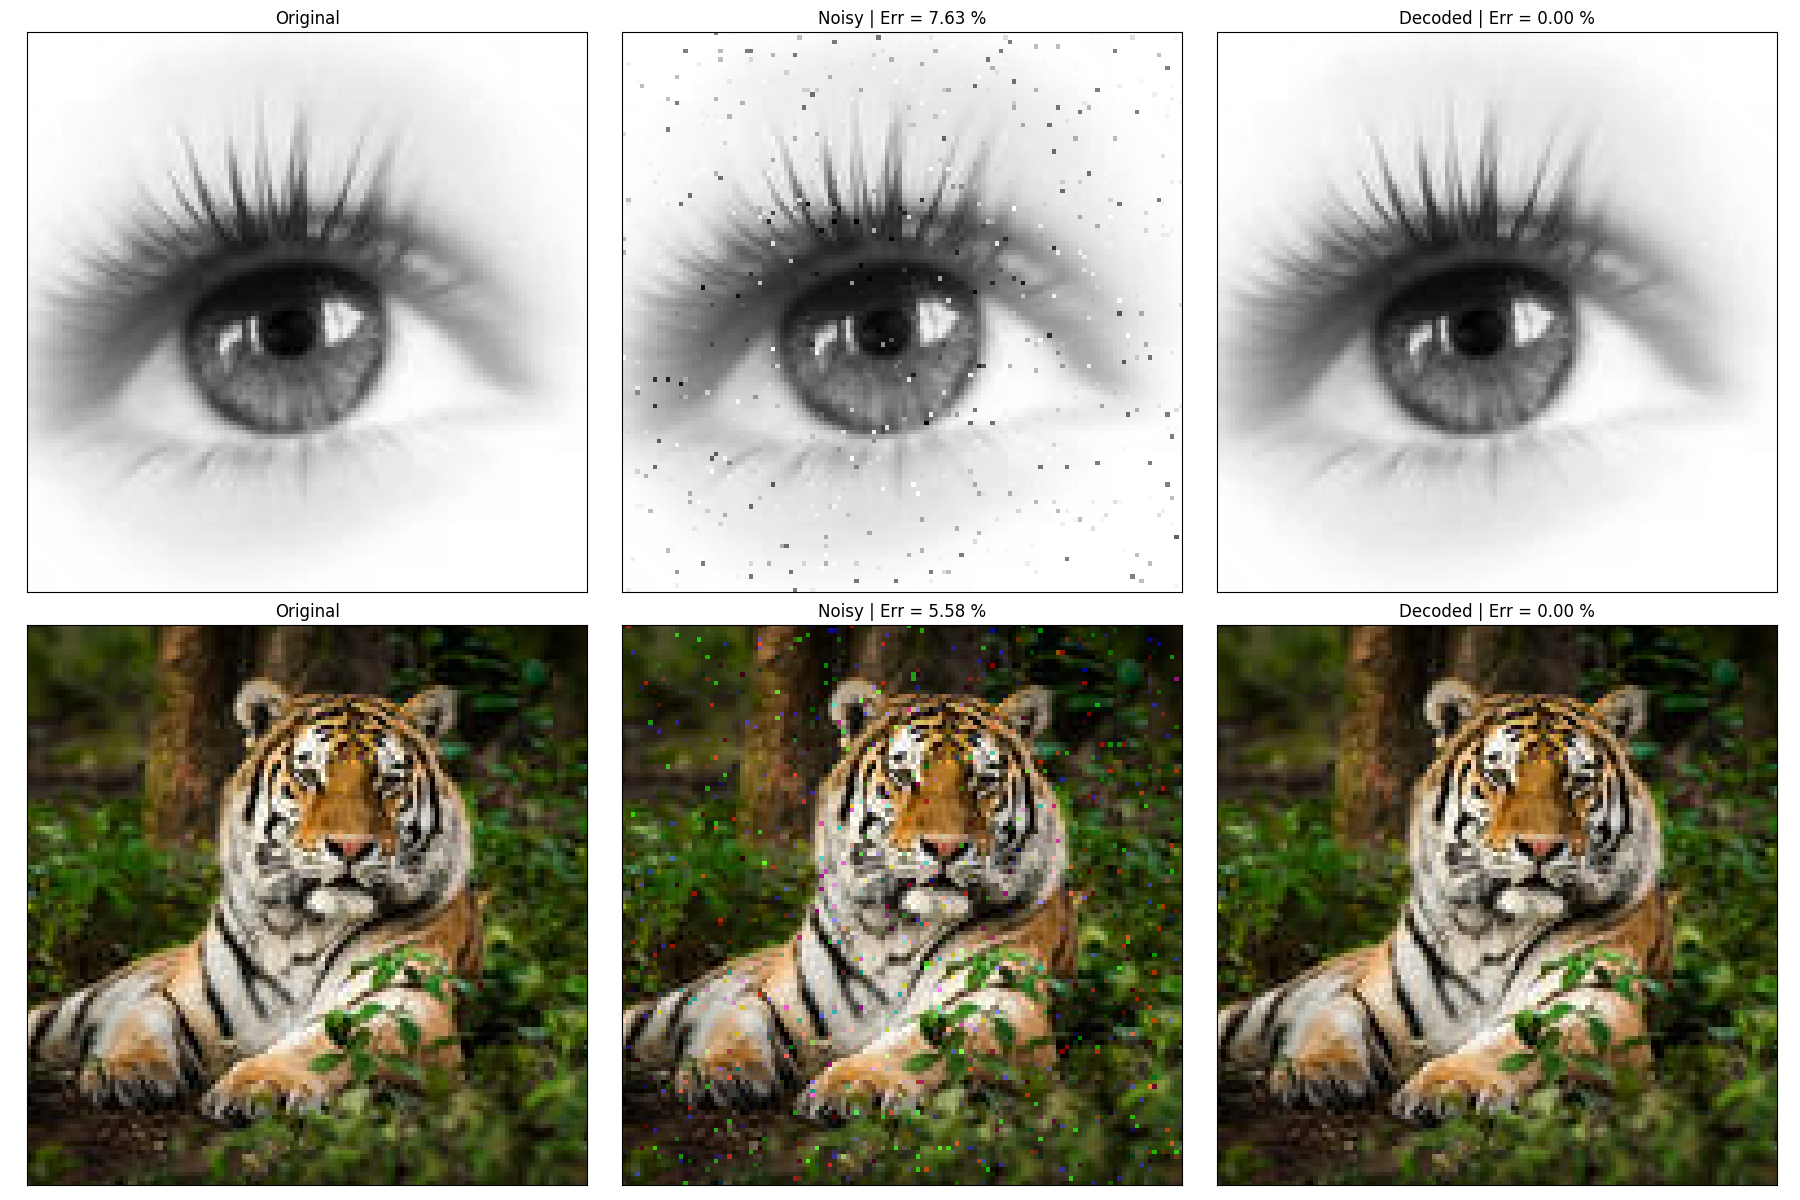
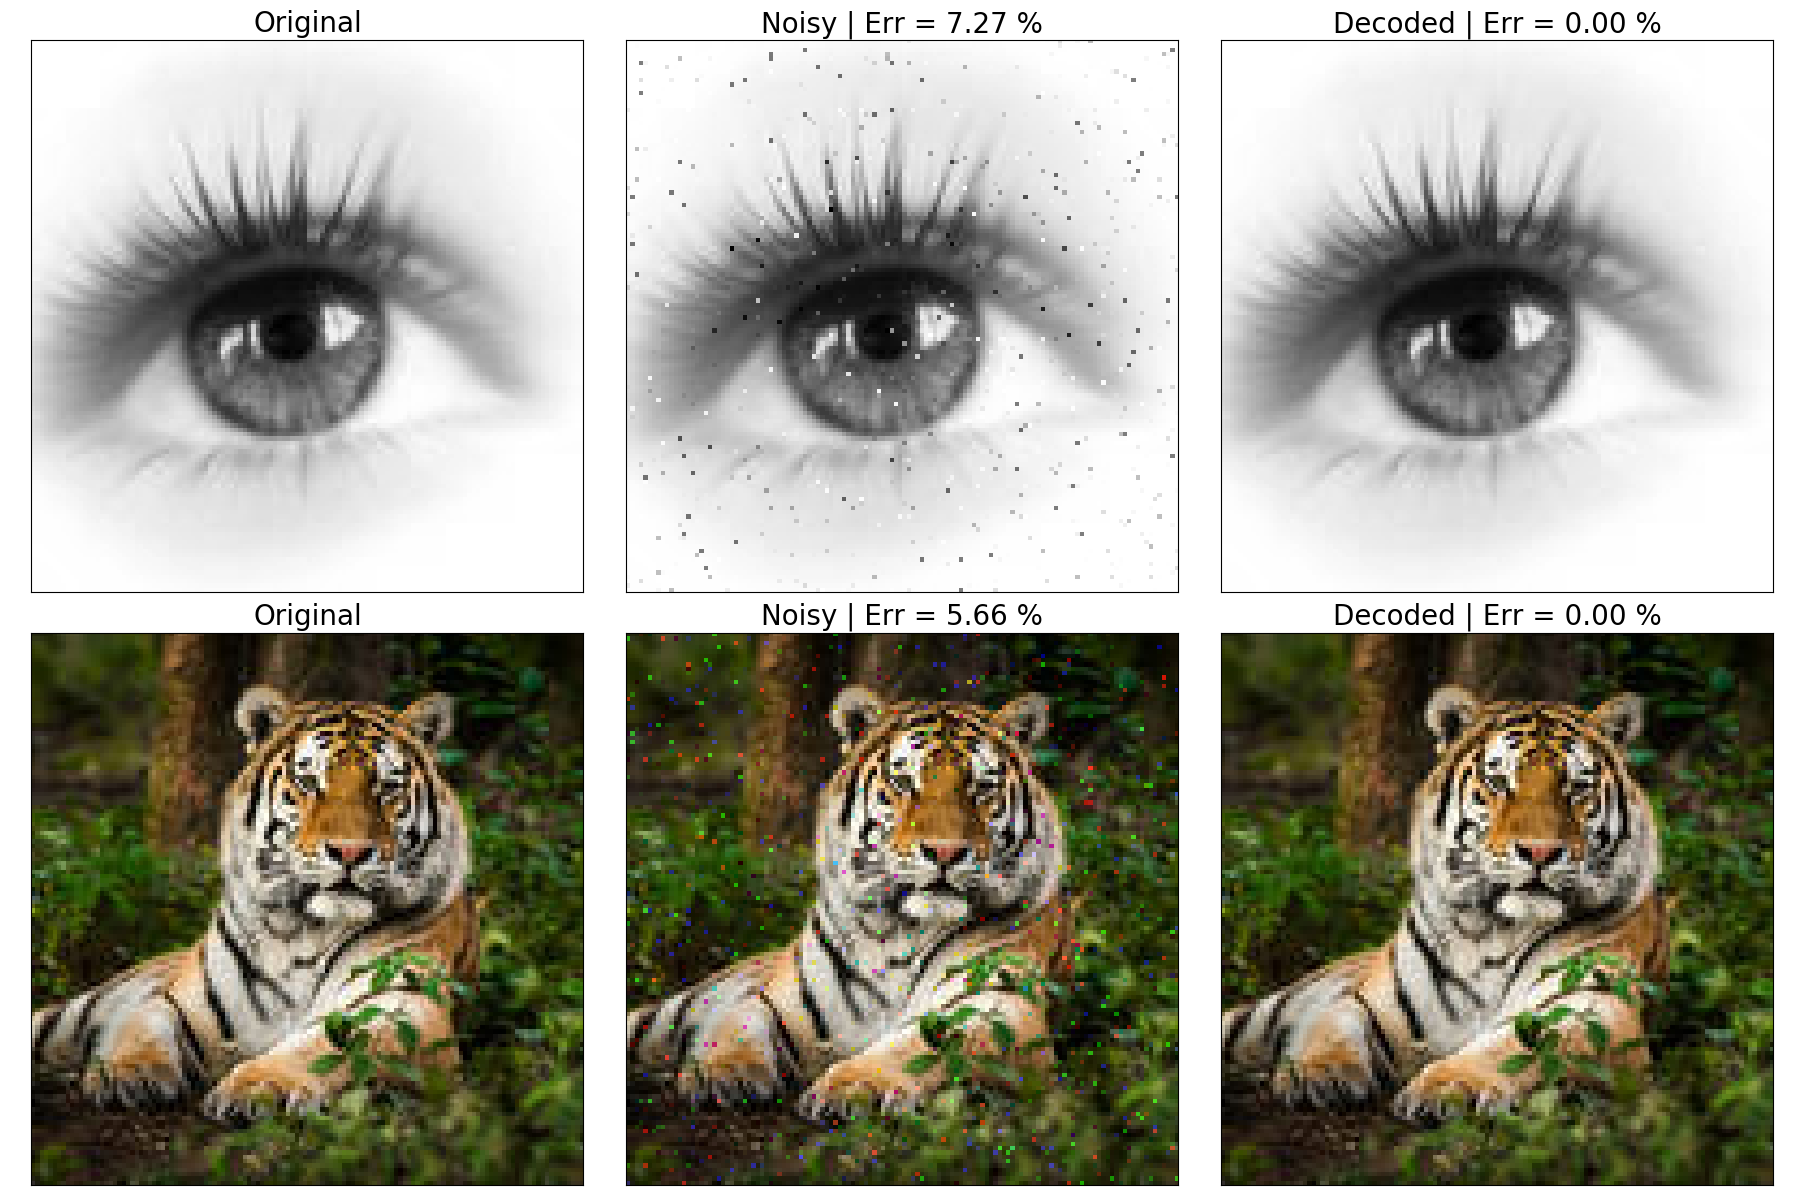
fix circle ci doc + font in example

diff --git a/docs/auto_examples/plot_image_transmission.py b/docs/auto_examples/plot_image_transmission.py
@@ -94,7 +94,7 @@ for ax_row, titles, img_list, cmap in zip(axes, [titles_eye, titles_tiger],
                                           all_imgs, ["gray", None]):
     for ax, data, title in zip(ax_row, img_list, titles):
         ax.imshow(data, cmap=cmap)
-        ax.set_title(title)
+        ax.set_title(title, fontsize=20)
         ax.set_xticks([])
         ax.set_yticks([])
 plt.tight_layout()

diff --git a/examples/plot_image_transmission.py b/examples/plot_image_transmission.py
@@ -94,7 +94,7 @@ for ax_row, titles, img_list, cmap in zip(axes, [titles_eye, titles_tiger],
                                           all_imgs, ["gray", None]):
     for ax, data, title in zip(ax_row, img_list, titles):
         ax.imshow(data, cmap=cmap)
-        ax.set_title(title)
+        ax.set_title(title, fontsize=20)
         ax.set_xticks([])
         ax.set_yticks([])
 plt.tight_layout()

diff --git a/docs/auto_examples/plot_image_transmission.rst b/docs/auto_examples/plot_image_transmission.rst
@@ -119,7 +119,7 @@ and recover the original image via belief-propagation.
  .. code-block:: none
 
     Coded eye shape (200, 2521)
-    Eye | Decoding time:  0.6544609069824219
+    Eye | Decoding time:  0.660240888595581
 
 
 
@@ -159,7 +159,7 @@ With RGB images, we proceed similarly
                                               all_imgs, ["gray", None]):
         for ax, data, title in zip(ax_row, img_list, titles):
             ax.imshow(data, cmap=cmap)
-            ax.set_title(title)
+            ax.set_title(title, fontsize=20)
             ax.set_xticks([])
             ax.set_yticks([])
     plt.tight_layout()
@@ -183,7 +183,7 @@ With RGB images, we proceed similarly
     Tiger shape: (128, 128, 3)
     Tiger Binary shape: (128, 128, 24)
     Coded Tiger shape (200, 7562)
-    Tiger | Decoding time:  1.9905340671539307
+    Tiger | Decoding time:  1.9829249382019043
     /Users/hichamjanati/Documents/github/pyldpc/examples/plot_image_transmission.py:101: UserWarning: Matplotlib is currently using agg, which is a non-GUI backend, so cannot show the figure.
       plt.show()
 
@@ -192,9 +192,9 @@ With RGB images, we proceed similarly
 
 .. rst-class:: sphx-glr-timing
 
-   **Total running time of the script:** ( 0 minutes  4.655 seconds)
+   **Total running time of the script:** ( 0 minutes  4.647 seconds)
 
-**Estimated memory usage:**  163 MB
+**Estimated memory usage:**  159 MB
 
 
 .. _sphx_glr_download_auto_examples_plot_image_transmission.py:

diff --git a/docs/auto_examples/sg_execution_times.rst b/docs/auto_examples/sg_execution_times.rst
@@ -5,8 +5,8 @@
 
 Computation times
 =================
-**00:04.655** total execution time for **auto_examples** files:
+**00:04.647** total execution time for **auto_examples** files:
 
-- **00:04.655**: :ref:`sphx_glr_auto_examples_plot_image_transmission.py` (``plot_image_transmission.py``)
+- **00:04.647**: :ref:`sphx_glr_auto_examples_plot_image_transmission.py` (``plot_image_transmission.py``)
 - **00:00.000**: :ref:`sphx_glr_auto_examples_plot_coding_decoding_simulation.py` (``plot_coding_decoding_simulation.py``)
 - **00:00.000**: :ref:`sphx_glr_auto_examples_plot_parallel_decoding.py` (``plot_parallel_decoding.py``)
